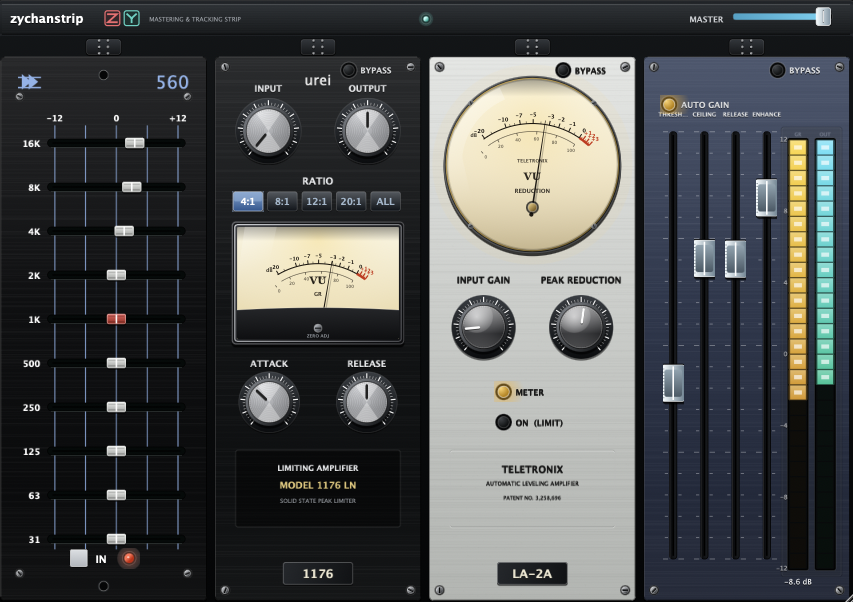
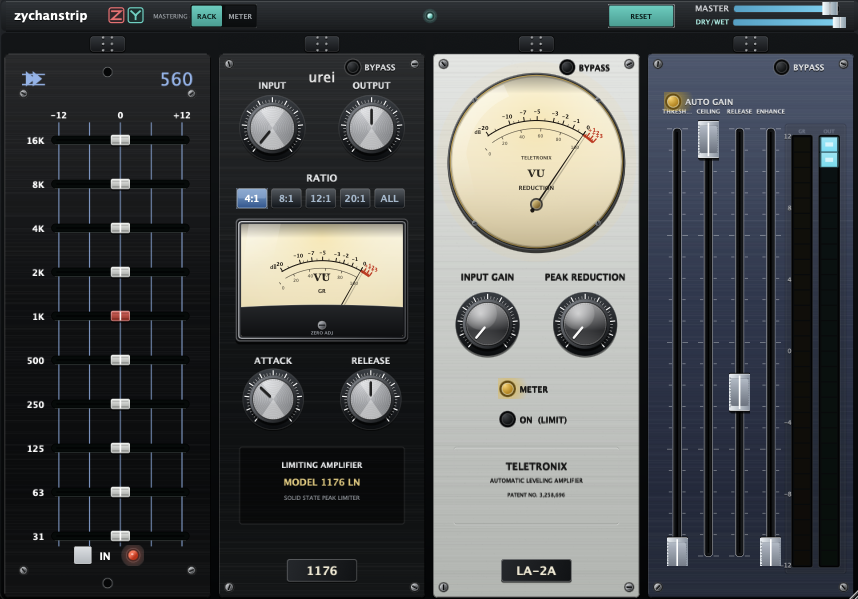
release: v1.0
- Hero screenshot on the repo page replaced with the shipped 1.0 UI
  (teal RESET pill, default rack order, Enhance fader channel rims).
- Project version 0.1.0 -> 1.0.0, so the AU reports CFBundleVersion
  1.0.0; README gains a Version badge.
- Harness unchanged at RESULT 230/230 after the version bump.

diff --git a/README.md b/README.md
@@ -6,6 +6,7 @@
 
 ### The Ultimate Analog Mastering & Tracking Rack for macOS
 
+[![Version](https://img.shields.io/badge/Version-1.0-green.svg)](#build-and-install)
 [![Audio Unit](https://img.shields.io/badge/Format-AUv2%20(Audio%20Unit)-blue.svg)](#build-and-install)
 [![Architecture](https://img.shields.io/badge/Architecture-Apple%20Silicon%20(arm64)-orange.svg)](#build-and-install)
 [![Framework](https://img.shields.io/badge/Built%20with-JUCE%208-green.svg)](#architecture)
